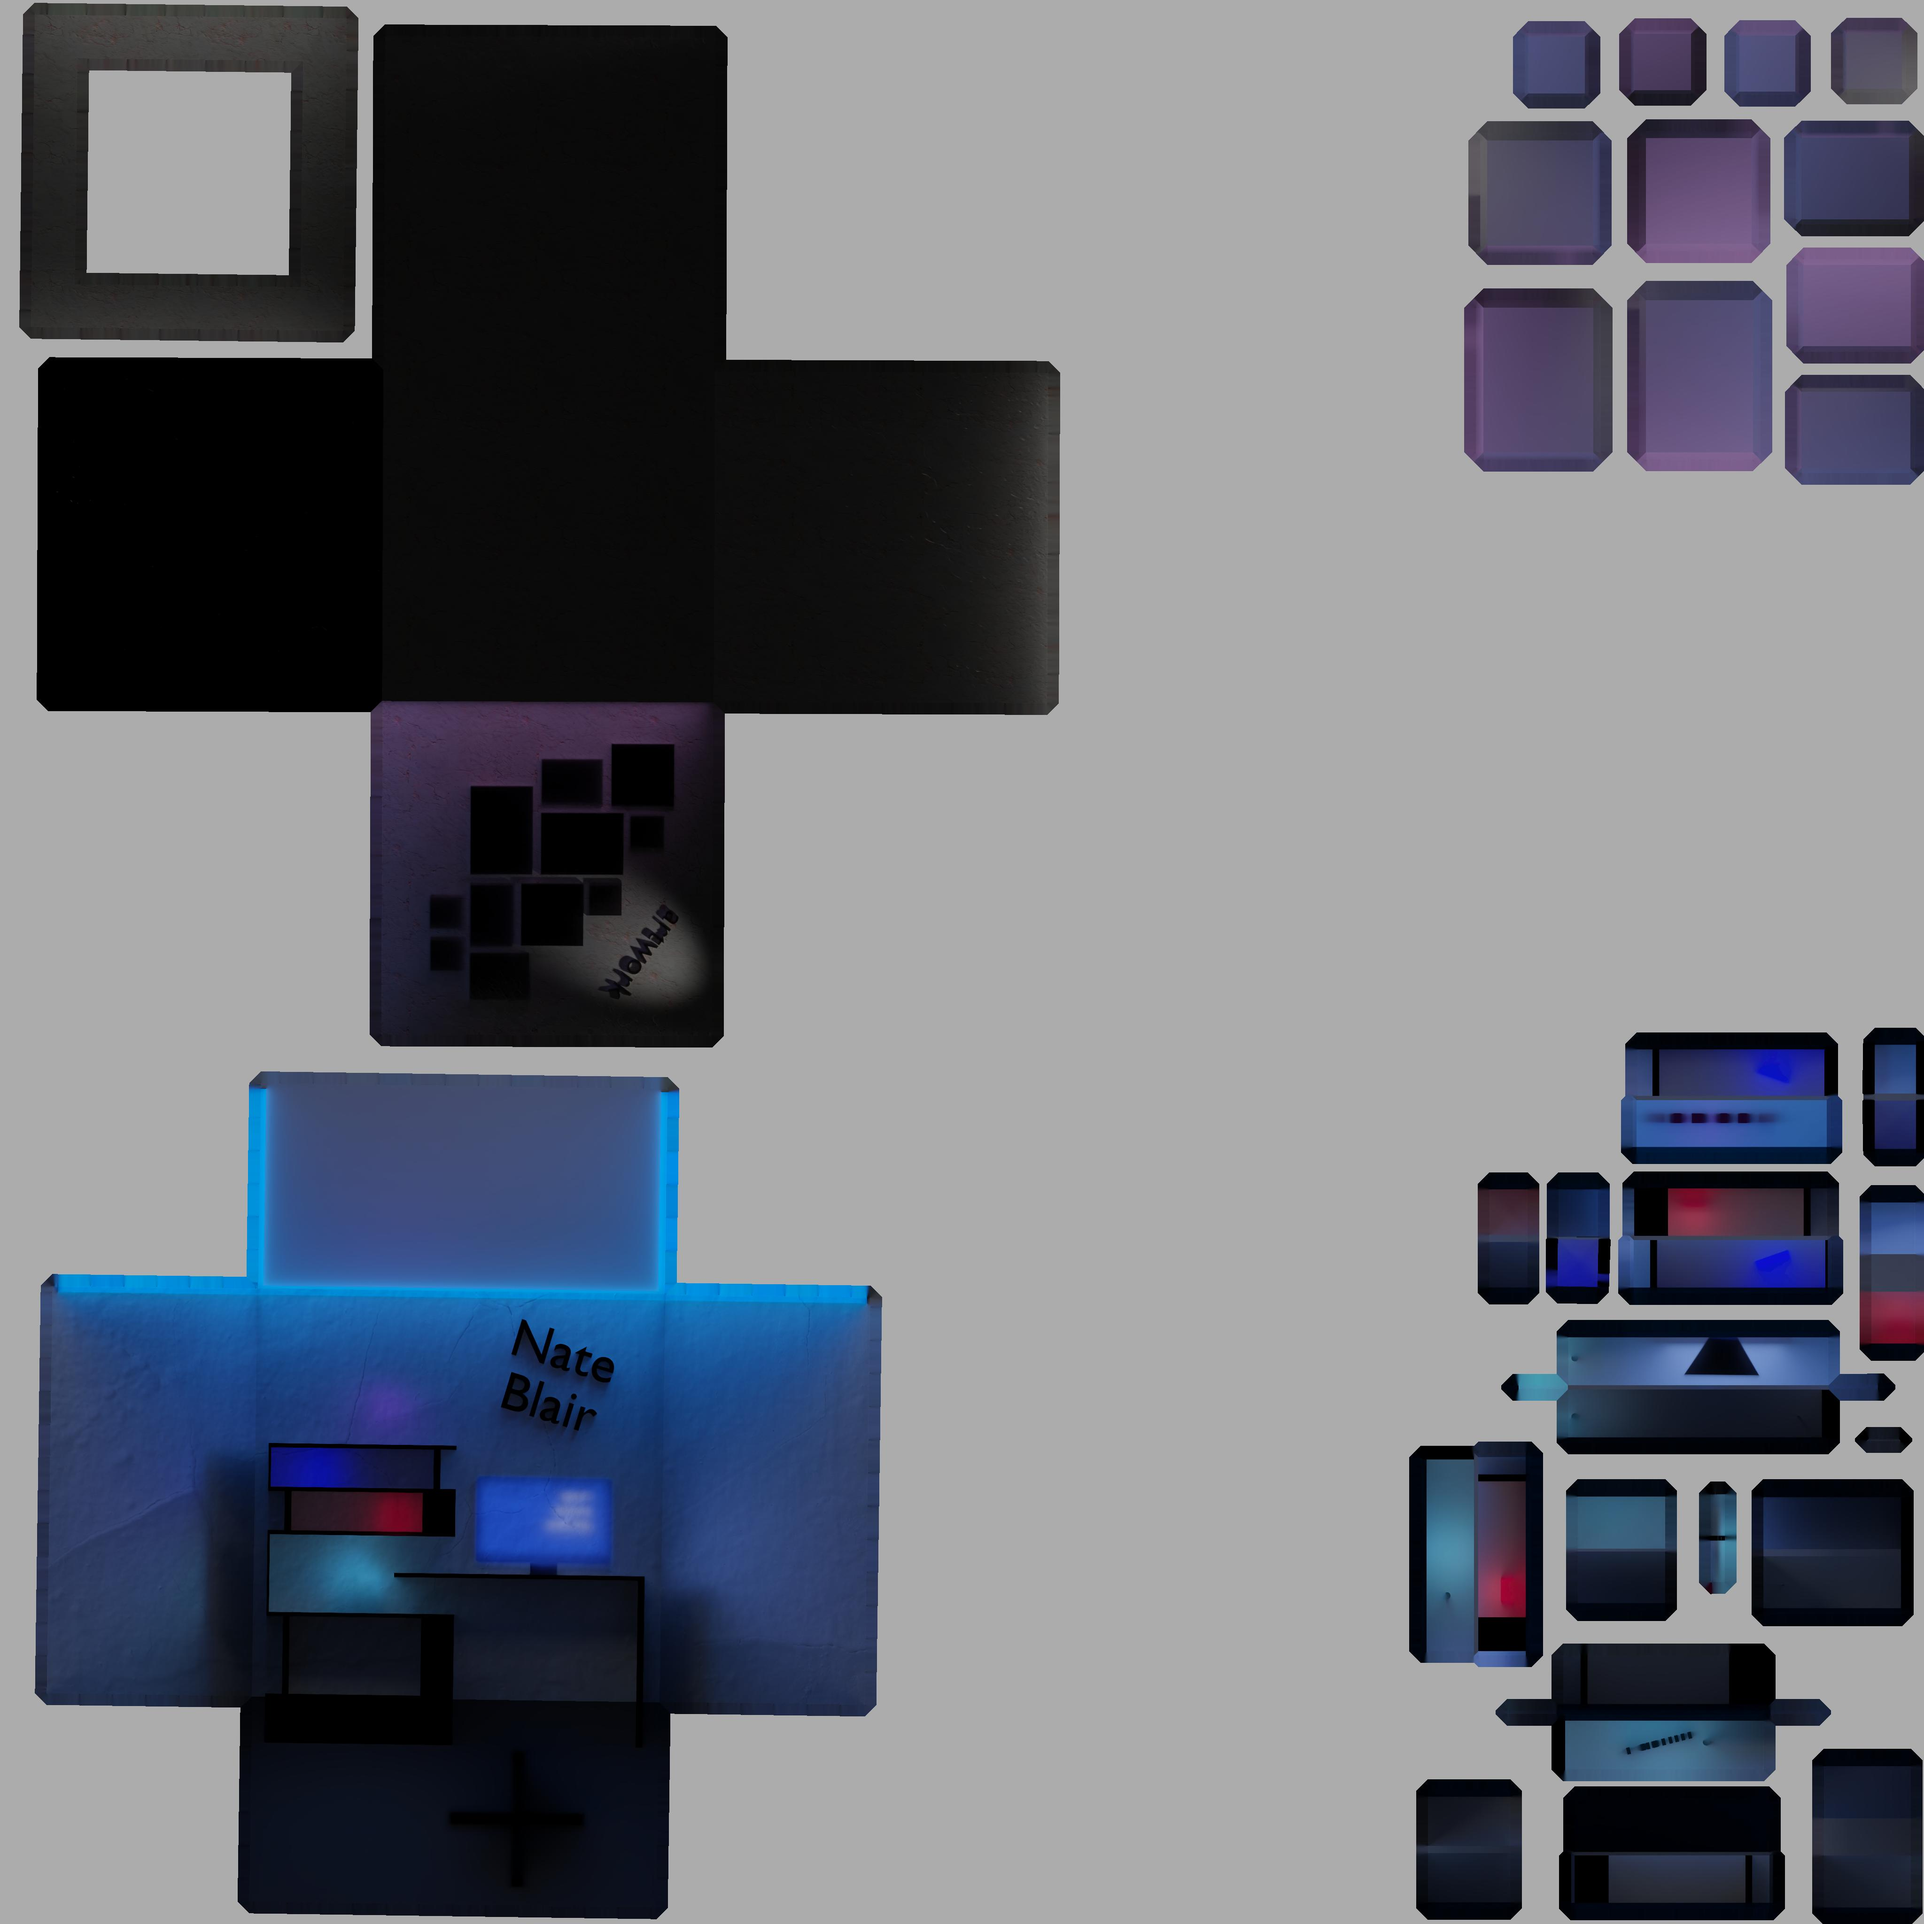
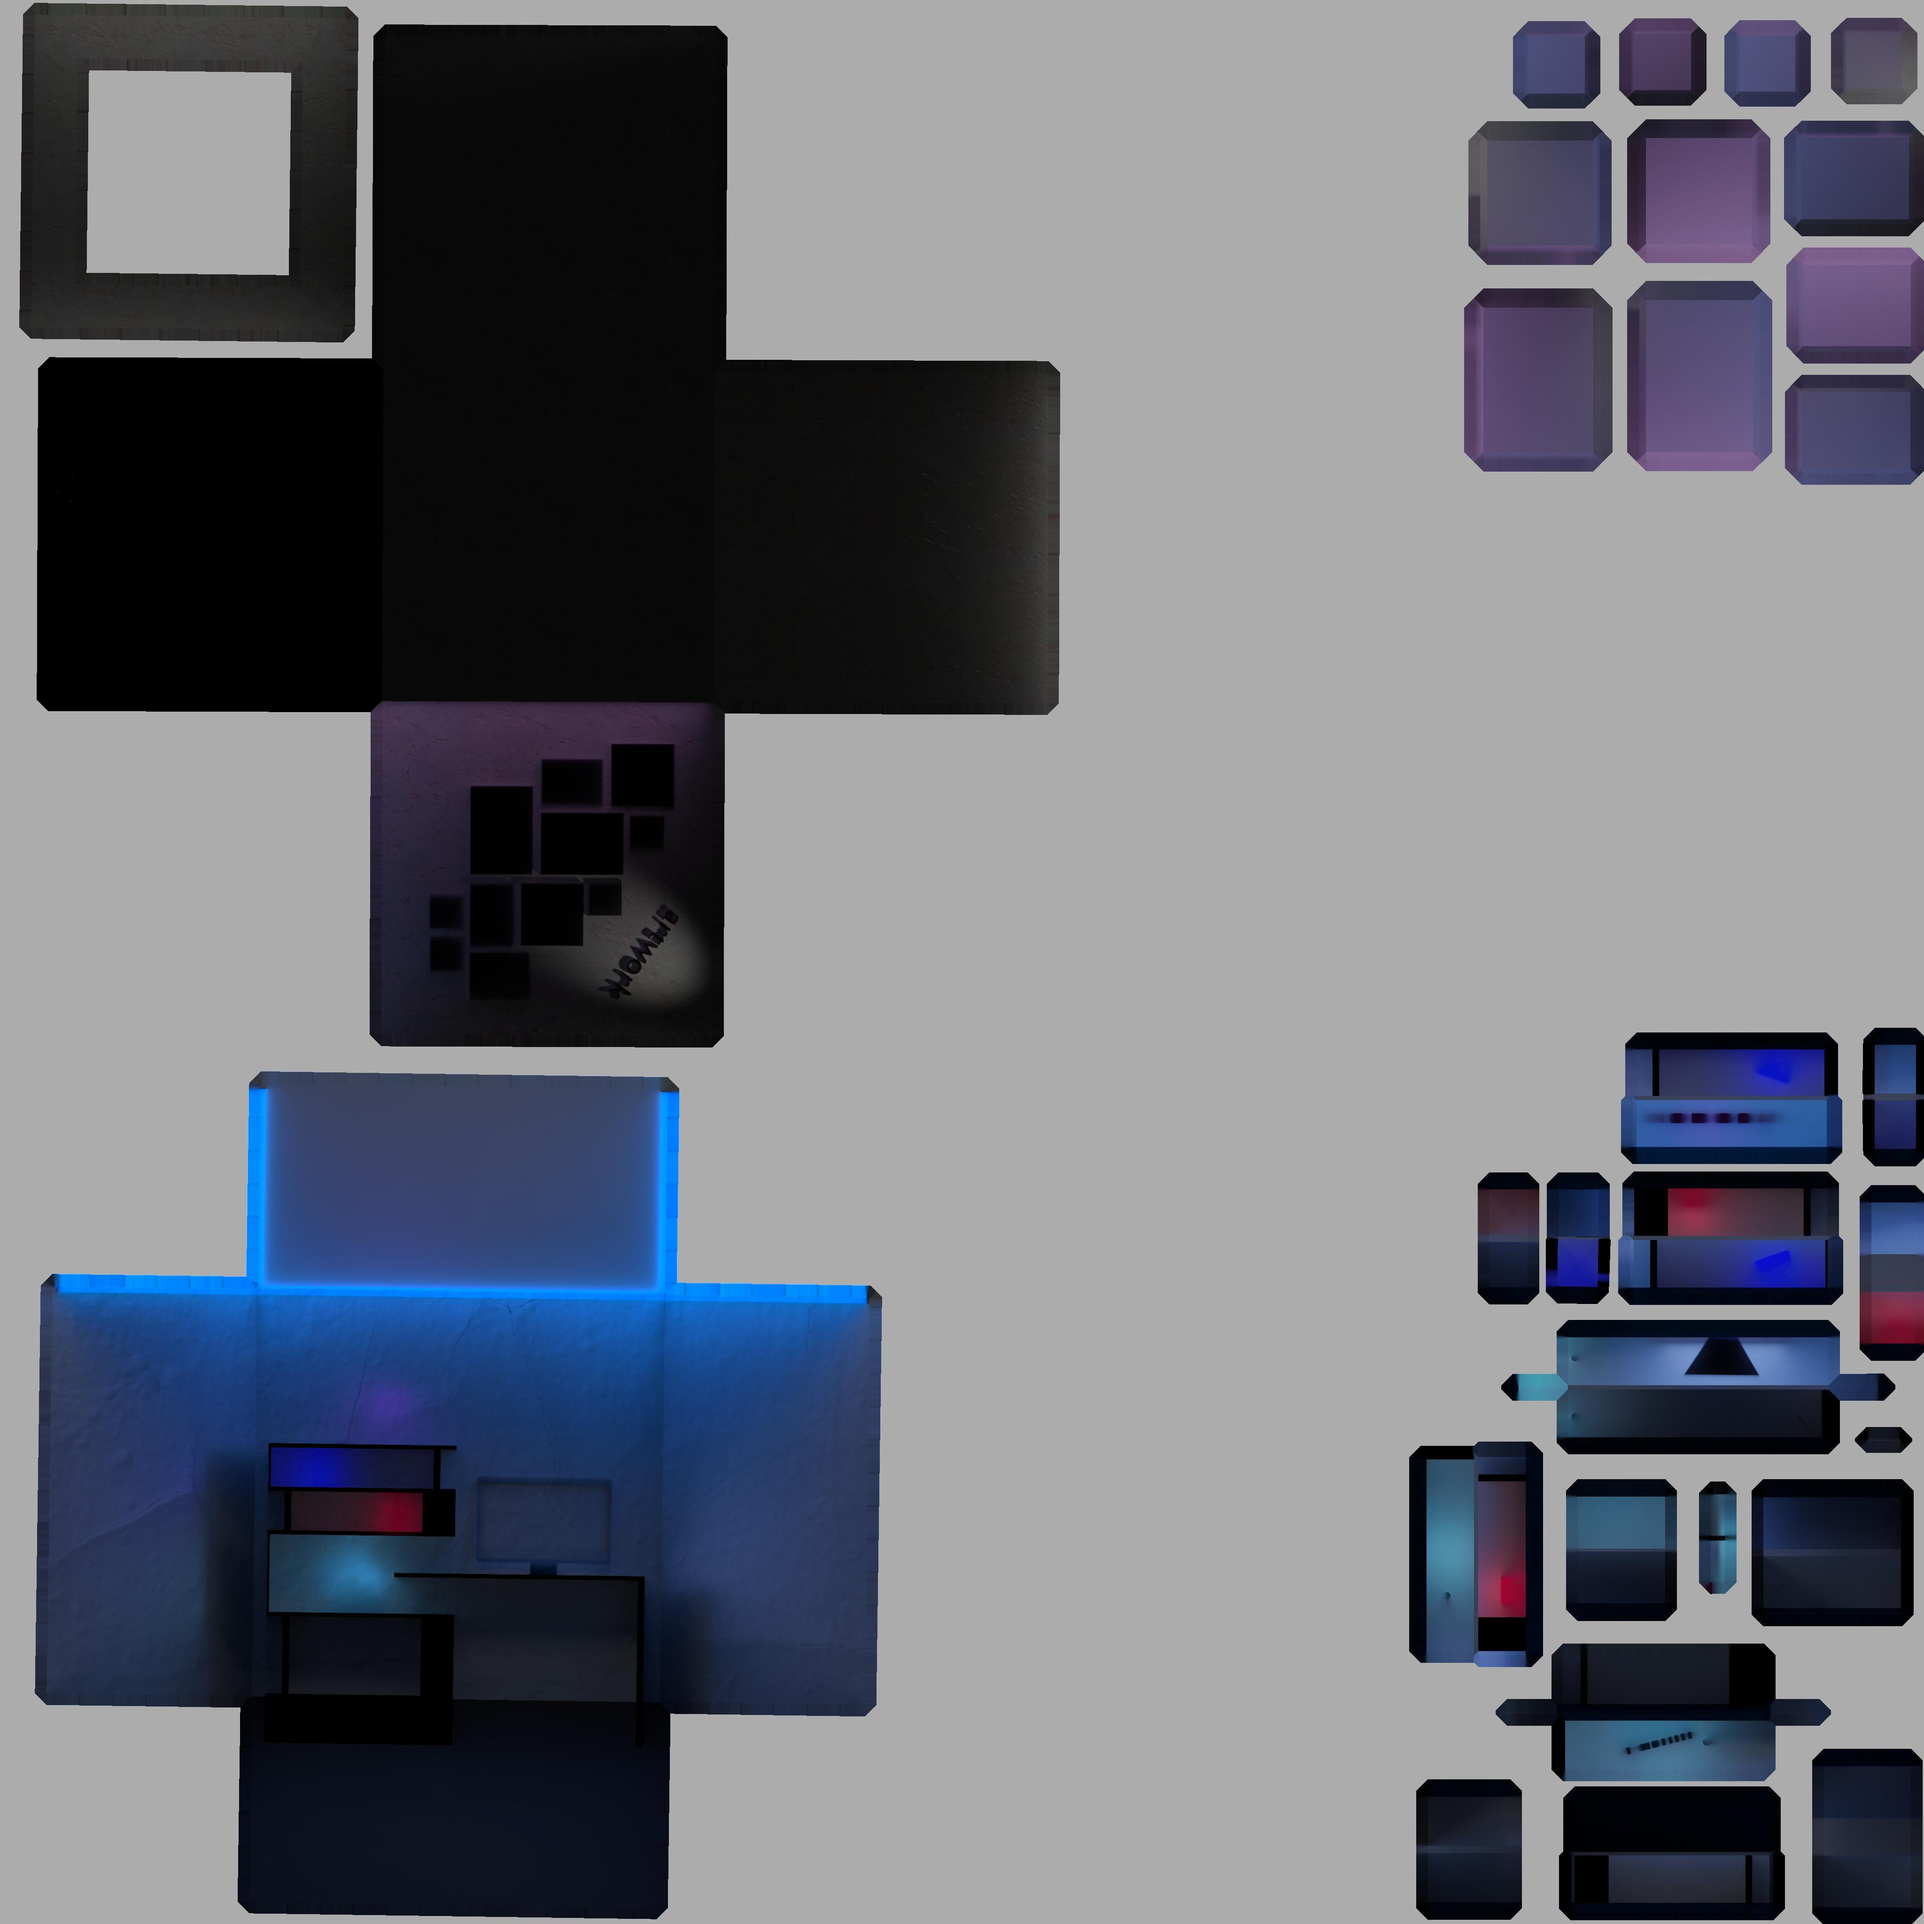
add text and replace baked cube textures

Changed region(s): [[0.0312, 0.5625, 0.4688, 0.8125], [0.2188, 0.9062, 0.3125, 0.9688]]

diff --git a/src/script.js b/src/script.js
@@ -6,7 +6,7 @@ import { DRACOLoader } from 'three/examples/jsm/loaders/DRACOLoader';
 import { FontLoader } from 'three/examples/jsm/loaders/FontLoader';
 import { TextGeometry } from 'three/examples/jsm/geometries/TextGeometry';
 
-import GUI from 'lil-gui';
+// import GUI from 'lil-gui';
 import * as TWEEN from '@tweenjs/tween.js';
 import Hammer from 'hammerjs';
 
@@ -25,7 +25,7 @@ class NateHub {
 
     this.hammertime = new Hammer(this.canvas);
 
-    this.gui = new GUI();
+    // this.gui = new GUI();
 
     this.breakpoints = {
       md: 768,
@@ -274,10 +274,10 @@ class NateHub {
     this.fontLoader.load(
       'fonts/helvetiker_bold.typeface.json',
       (font) => {
-        const textGeo = new TextGeometry('Nate\nBlair', {
+        const textGeo = new TextGeometry("Hello,\nI'm Nate.", {
           font,
-          size: 0.7,
-          height: 0.4,
+          size: 0.4,
+          height: 0.3,
           curveSegments: 6,
           bevelEnabled: true,
           bevelThickness: 0.01,
@@ -291,12 +291,10 @@ class NateHub {
         const text = new THREE.Mesh(textGeo, textMaterial);
 
         text.position.x = 0.7;
-        text.position.y = 3;
+        text.position.y = 2.7;
         text.position.z = -1;
         text.rotation.y = Math.PI * 0.5;
-        text.rotation.x = Math.PI * -0.2;
-
-        this.gui.add(text.rotation, 'x', Math.PI * -0.25, 0);
+        text.rotation.x = Math.PI * -0.0955;
 
         this.scene.add(text);
       },
